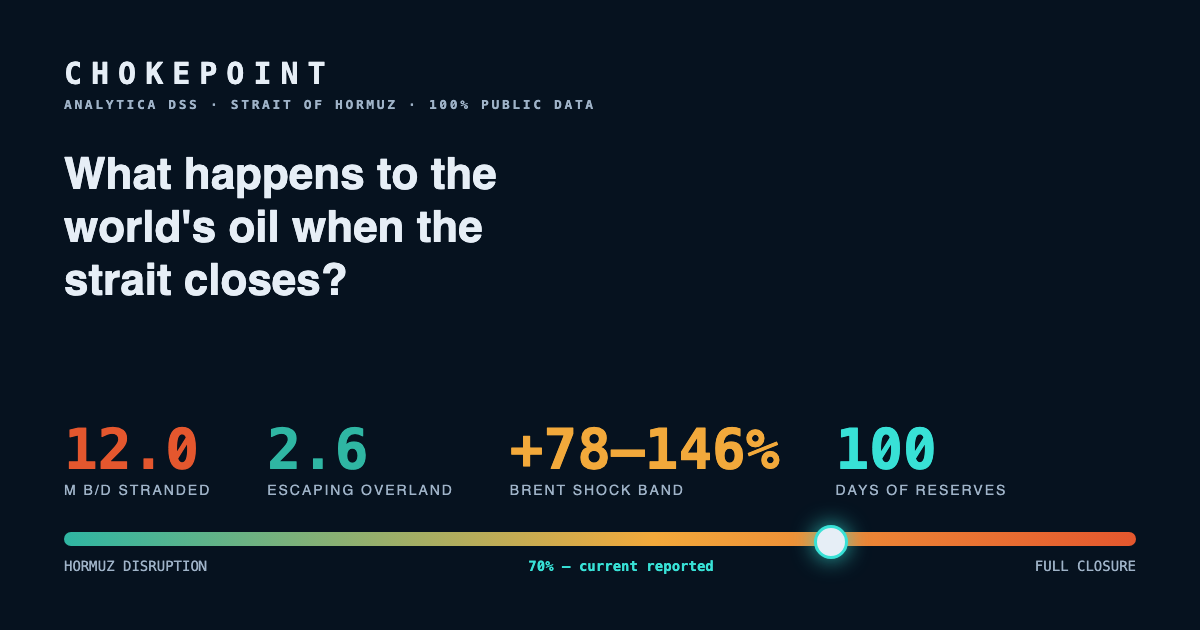
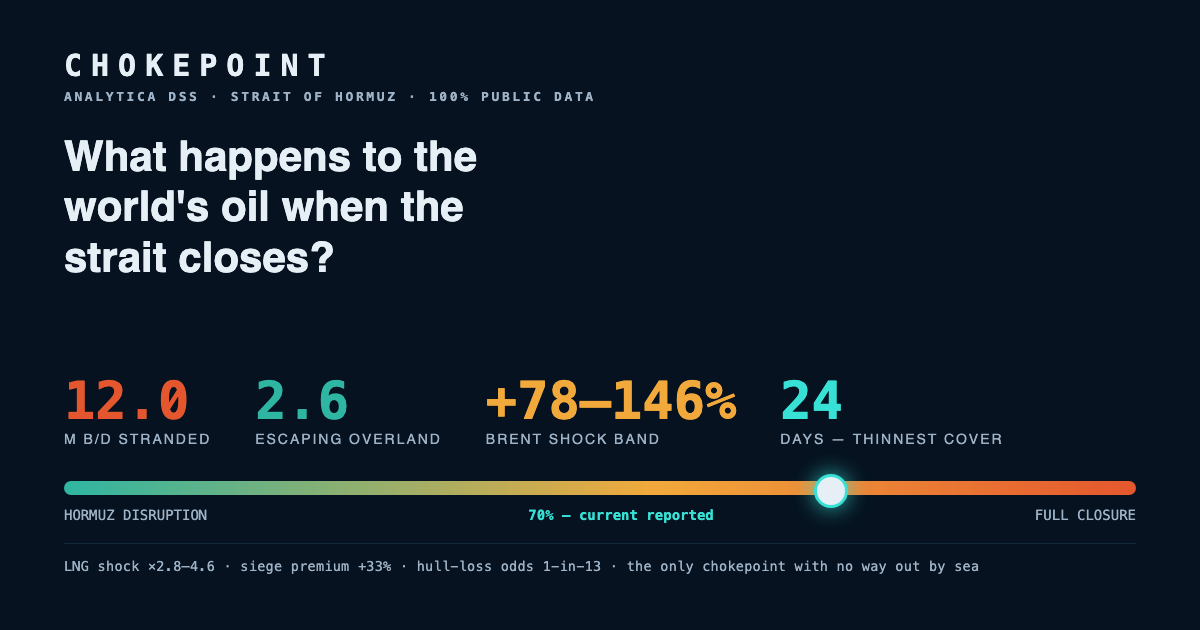
Print brief + OG card: fold in Tier 1-3 headline numbers
Brief gains a second readout row (siege premium, net gap after max SPR
release, LNG offline with gas multiplier, implied hull-loss odds), the
importer days-of-cover strip, and the chokepoint-anatomy line in the footer
- still one page. OG card: thinnest-importer-cover stat replaces the reserve
runway; substrip carries LNG/siege/odds and the no-sea-alternative thesis.

Changed region(s): [[0.0308, 0.6032, 0.9558, 0.9048], [0.0308, 0.2111, 0.4317, 0.4825], [0.0308, 0.0603, 0.4933, 0.181]]

diff --git a/src/ui.js b/src/ui.js
@@ -1,5 +1,6 @@
 /** Shell UI: readouts, scenario controls, layer toggles, time scrubber, detail card. */
 import { countUp, fmt, bandText, statusBadge, sourceLine } from './format.js';
+import { lngShock, impliedLossOdds } from './model.js';
 import { LAYER_GROUPS } from './map.js';
 import { store } from './state.js';
 
@@ -172,6 +173,17 @@ export function buildBrief(sc, s, data) {
   const insPre = data.insurance.points.find((p) => p.label === 'Pre-crisis baseline');
   const maxExports = Math.max(...sc.exposure.map((p) => p.gulf_exports_mbd));
 
+  // Tier 1–3 headline derivatives
+  const lg = lngShock(sc.d, data.lng);
+  const oddsWorst = impliedLossOdds(ins.high);
+  const oddsBest = impliedLossOdds(ins.low);
+  const siege = Math.min(sc.share / cfg.figures.eps_longrun.value, cfg.figures.shock_cap.value);
+  const coverRows = sc.importers.filter((m) => Number.isFinite(m.daysCover)).slice(0, 5);
+  const coverStrip = coverRows.length
+    ? coverRows.map((m) => `${m.name.replace(' (China, India, Korea, Japan…)', '')}
+        <b class="num">${m.daysCover > 999 ? '999+' : fmt(m.daysCover, 0)}</b>${m.stocks_status === 'estimate' ? '<small>est.</small>' : ''}`).join(' · ')
+    : 'no import losses at this disruption level';
+
   const rows = sc.exposure.map((p) => {
     const w = (p.gulf_exports_mbd / maxExports) * 100;
     const strFrac = p.gulf_exports_mbd > 0 ? p.stranded / p.gulf_exports_mbd : 0;
@@ -203,6 +215,13 @@ export function buildBrief(sc, s, data) {
         <div class="pb-tile cyan"><div class="v num">${Number.isFinite(sc.sprDays) ? fmt(sc.sprDays, 0) : '∞'} <small>days</small></div><div class="l">Strategic-reserve runway</div></div>
       </div>
 
+      <div class="pb-tiles pb-tiles2">
+        <div class="pb-tile amber"><div class="v num">+${fmt(siege * 100, 0)}<small>%</small></div><div class="l">Siege premium, 12–24 mo — persistent while barrels stay missing</div></div>
+        <div class="pb-tile cyan"><div class="v num">${fmt(sc.sprReal.net)} <small>M b/d</small></div><div class="l">Net gap after max SPR release — the tap binds at ${fmt(cfg.figures.max_release_mbd.value)} M b/d</div></div>
+        <div class="pb-tile" style="border-top-color:#8A5A0D"><div class="v num" style="color:#8A5A0D">${fmt(lg.lostMtpa, 0)} <small>Mt/yr</small></div><div class="l">LNG offline, zero bypass — gas multiplier ×${fmt(lg.mult.lo)}–×${fmt(lg.mult.hi)} (illustr.)</div></div>
+        <div class="pb-tile crim"><div class="v num">1-in-${fmt(oddsWorst.oneIn, 0)}<small>–${fmt(oddsBest.oneIn, 0)}</small></div><div class="l">Implied hull-loss odds per transit, from current quotes</div></div>
+      </div>
+
       <div class="pb-flow">
         <div class="pb-flowbar">
           <span class="un" style="width:${seg(flowing)}%"></span><span class="by" style="width:${seg(sc.bypass)}%"></span><span class="st" style="width:${seg(sc.stranded)}%"></span>
@@ -224,6 +243,8 @@ export function buildBrief(sc, s, data) {
           <p class="pb-tablenote">Gulf seaborne exports, M b/d, pre-crisis baselines (EIA country analysis briefs).
           Per producer: stranded = exports·d − min(own pipeline spare, exports·d). Only Saudi Arabia (Petroline → Yanbu),
           the UAE (ADCOP → Fujairah) and Iran (Goreh–Jask) own an overland escape.</p>
+          <div class="pb-cover pb-block"><b>Days of strategic cover</b> (importer stocks ÷ lost supply, shortest first):
+          ${coverStrip}. China's reserves are state-opaque — public estimates only.</div>
           <div class="pb-callout pb-block"><b>The number nobody states cleanly:</b> Qatar's ~77 Mt/yr of LNG —
           about a fifth of the world's LNG trade — has zero overland bypass. Petroline can save Saudi barrels;
           nothing can save Qatari cargoes.</div>
@@ -249,7 +270,9 @@ SPR_days = reserves ÷ stranded(d)</pre>
       </div>
     </div>
     <div class="pb-foot">
-      <b>Sources &amp; provenance.</b> EIA World Oil Transit Chokepoints (retrieved ${cfg.as_of}) · EIA country
+      <b>Why Hormuz is different:</b> the only major oil chokepoint with no sea alternative — Suez closed for
+      eight years and the world rerouted around the Cape; here the ships have nowhere else to go.
+      <br><b>Sources &amp; provenance.</b> EIA World Oil Transit Chokepoints (retrieved ${cfg.as_of}) · EIA country
       analysis briefs · IEA oil security · JWC listed-area circulars, Lloyd's List and S&amp;P Global commentary ·
       2026-crisis public reporting. Statuses (verified / reported / estimate / illustrative) are carried per figure
       and surfaced at <b>chokepoint.analyticadss.com</b> — full equations and coverage gaps under Methodology.

diff --git a/css/print.css b/css/print.css
@@ -72,6 +72,21 @@
   .pb-tile.amber { border-top-color: #B97A14; } .pb-tile.amber .v { color: #B97A14; }
   .pb-tile.cyan { border-top-color: #0E7C8C; } .pb-tile.cyan .v { color: #0E7C8C; }
 
+  /* Second-order readouts: smaller tile row */
+  .pb-tiles2 { grid-template-columns: repeat(4, 1fr); margin-top: 12px; }
+  .pb-tiles2 .pb-tile { border-top-width: 2px; padding-top: 5px; }
+  .pb-tiles2 .v { font-size: 15px; }
+  .pb-tiles2 .l { font-size: 7px; }
+
+  /* Importer days-of-cover strip */
+  .pb-cover {
+    font-size: 8.6px; line-height: 1.6; color: #2B3742;
+    background: #F2F5F8; border-left: 2.6px solid #0E7C8C;
+    padding: 6px 9px;
+  }
+  .pb-cover .num { font-size: 10px; }
+  .pb-cover small { color: #B97A14; font-size: 7px; }
+
   /* ── Throughput waterfall ── */
   .pb-flow { margin: 15px 0 0; page-break-inside: avoid; }
   .pb-flowbar {

diff --git a/og.html b/og.html
@@ -13,8 +13,8 @@
   .mark small { display: block; font-size: 13px; letter-spacing: 0.2em; color: var(--ink-dim); margin-top: 6px; }
   .headline { font-size: 44px; font-weight: 600; max-width: 20ch; margin: 36px 0 0; line-height: 1.2; }
   .dial { padding: 0 64px 56px; }
-  .row { display: flex; gap: 56px; margin-bottom: 34px; }
-  .stat .v { font-family: var(--font-mono); font-size: 56px; font-weight: 700; }
+  .row { display: flex; gap: 44px; margin-bottom: 34px; }
+  .stat .v { font-family: var(--font-mono); font-size: 52px; font-weight: 700; white-space: nowrap; }
   .stat .l { font-size: 14px; text-transform: uppercase; letter-spacing: 0.14em; color: var(--ink-dim); }
   .crim { color: var(--stranded-crim); } .teal { color: var(--safe-teal); } .amber { color: var(--exposed-amber); }
   .track { height: 14px; border-radius: 7px; position: relative;
@@ -24,6 +24,11 @@
   .cap { display: flex; justify-content: space-between; font-family: var(--font-mono);
          font-size: 14px; color: var(--ink-dim); margin-top: 12px; }
   .cap b { color: var(--data-cyan); }
+  .substrip { font-family: var(--font-mono); font-size: 13.5px; letter-spacing: 0.02em;
+              color: var(--ink-dim); margin-top: 20px; padding-top: 14px;
+              border-top: 1px solid rgba(30, 58, 82, 0.55); }
+  .headline { margin-top: 28px; font-size: 42px; }
+  .top { padding-top: 48px; }
 </style>
 </head>
 <body>
@@ -36,10 +41,11 @@
       <div class="stat"><div class="v crim">12.0</div><div class="l">M b/d stranded</div></div>
       <div class="stat"><div class="v teal">2.6</div><div class="l">Escaping overland</div></div>
       <div class="stat"><div class="v amber">+78–146%</div><div class="l">Brent shock band</div></div>
-      <div class="stat"><div class="v" style="color:var(--data-cyan)">100</div><div class="l">Days of reserves</div></div>
+      <div class="stat"><div class="v" style="color:var(--data-cyan)">24</div><div class="l">Days — thinnest cover</div></div>
     </div>
     <div class="track"><div class="thumb"></div></div>
     <div class="cap"><span>HORMUZ DISRUPTION</span><b>70% — current reported</b><span>FULL CLOSURE</span></div>
+    <div class="substrip">LNG shock ×2.8–4.6 · siege premium +33% · hull-loss odds 1-in-13 · the only chokepoint with no way out by sea</div>
   </div>
 </body>
 </html>